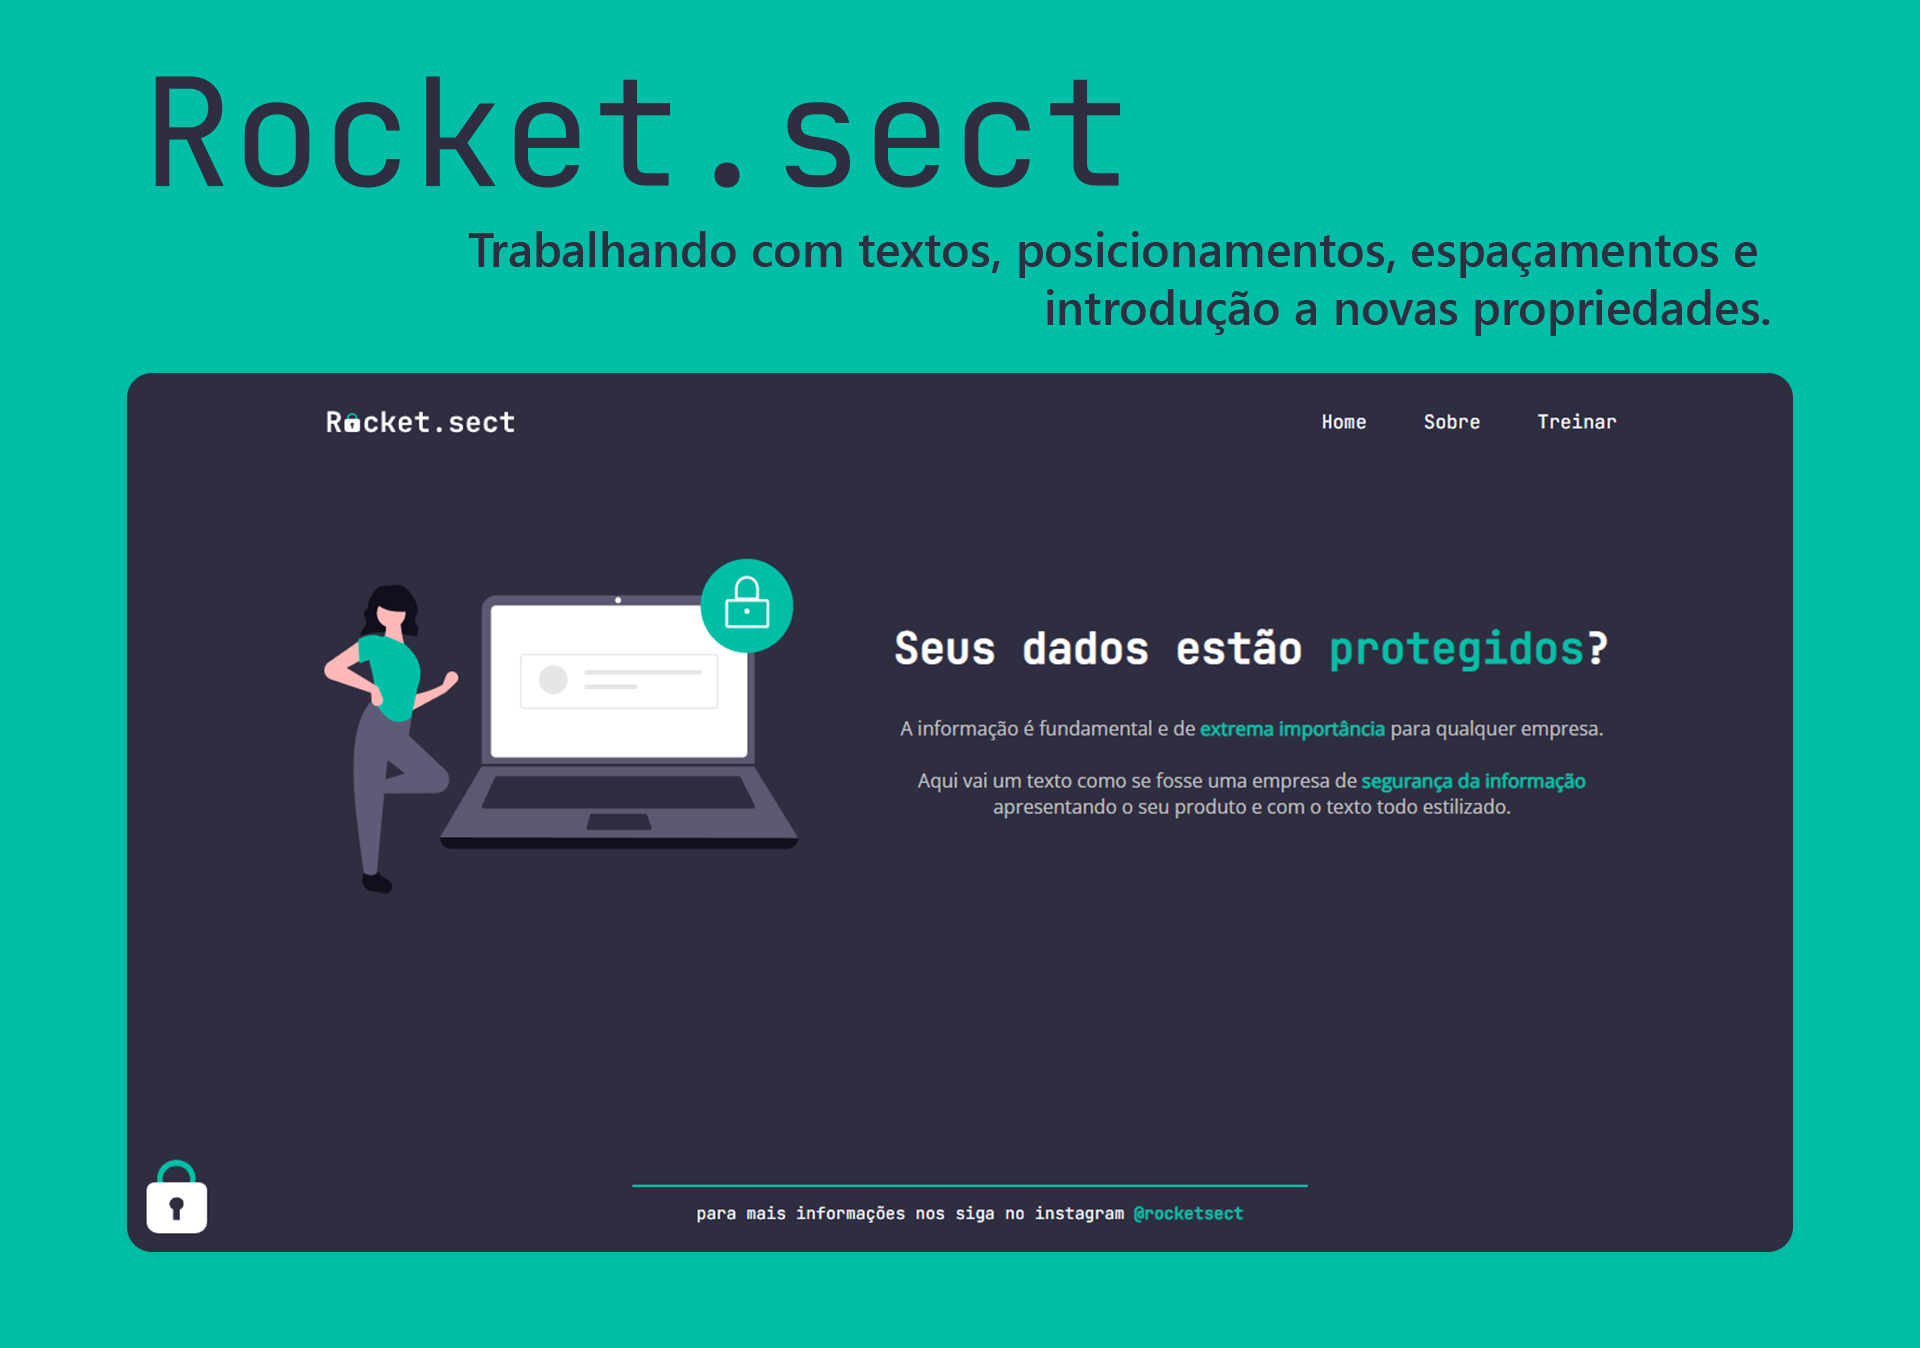
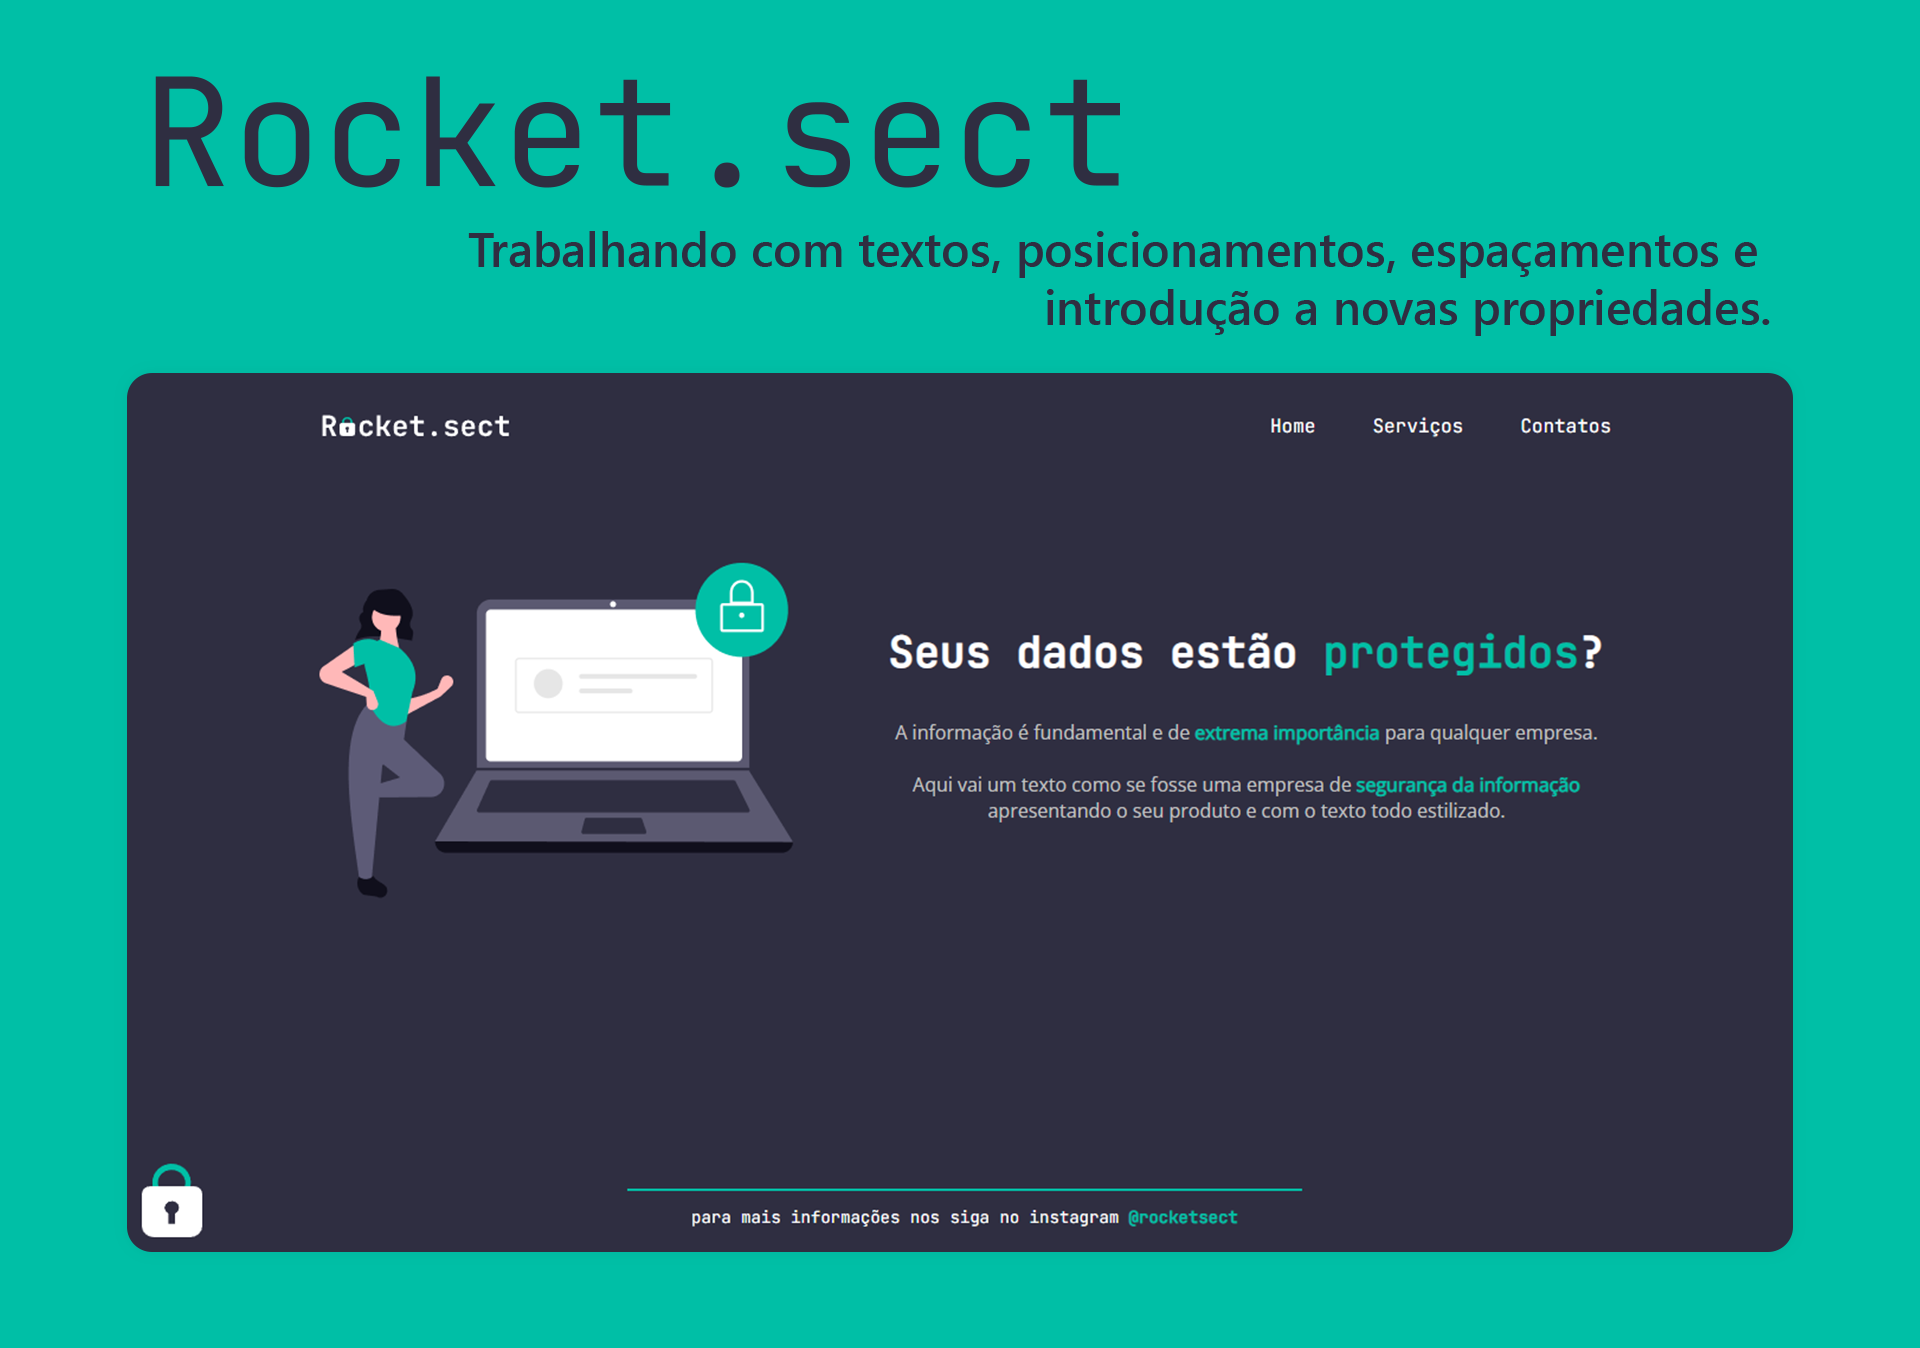
Corrigindo detalhes

diff --git a/index.html b/index.html
@@ -23,8 +23,8 @@
                 </a>
                 <ul>
                     <li><a>Home</a></li>
-                    <li><a>Sobre</a></li>
-                    <li><a>Treinar</a></li>
+                    <li><a>Serviços</a></li>
+                    <li><a>Contatos</a></li>
                 </ul>
             </nav>
 
